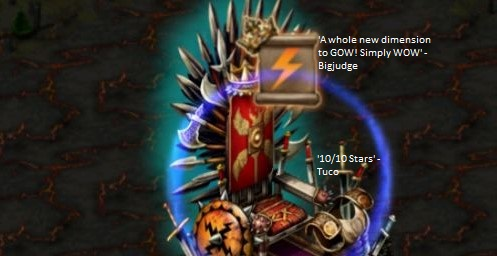
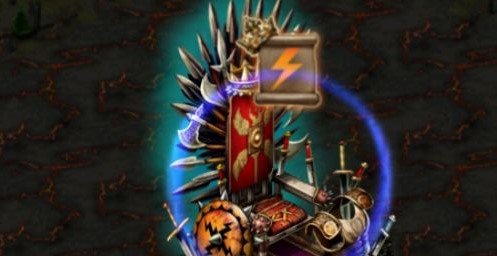
Updated FAQ and home page pictures

Changed region(s): [[0.6338, 0.125, 0.8753, 0.2188], [0.6338, 0.5938, 0.7545, 0.6875], [0.6338, 0.25, 0.7243, 0.2812]]

diff --git a/GowWebSite/Content/style.css b/GowWebSite/Content/style.css
@@ -30,18 +30,20 @@ section.module.parallax h1 {
   text-transform: uppercase;
   text-shadow: 0 0 10px rgba(0, 0, 0, 0.2);
 }
+
+
 section.module.parallax-1 {
-  background-image: url("../../Content/Images/FullStartupScreenSmall.jpg");
+  background-image: url("../../Content/Images/FullStartupScreen.jpg");
 }
 section.module.parallax-2 {
-  background-image: url("../../Content/Images/GrowFasterSmall.jpg");
+  background-image: url("../../Content/Images/GrowFaster.jpg");
 }
 section.module.parallax-3 {
-  background-image: url("../../Content/Images/SaveTimeSmall.jpg");
+  background-image: url("../../Content/Images/SaveTime.jpg");
 }
-section.module.parallax-4 {
-  background-image: url("../../Content/Images/StaySafeSmall.jpg");
-}
+    section.module.parallax-4 {
+        background-image: url("../../Content/Images/StaySafe.jpg");
+    }
 
 @media all and (min-width: 600px) {
     section.module.parallax {
@@ -79,17 +81,4 @@ section.module.parallax-4 {
     font-size: 96px;
   }
 
-
-section.module.parallax-1 {
-  background-image: url("../../Content/Images/FullStartupScreen.jpg");
-}
-section.module.parallax-2 {
-  background-image: url("../../Content/Images/GrowFaster.jpg");
-}
-section.module.parallax-3 {
-  background-image: url("../../Content/Images/SaveTime.jpg");
-}
-    section.module.parallax-4 {
-        background-image: url("../../Content/Images/StaySafe.jpg");
-    }
 }
